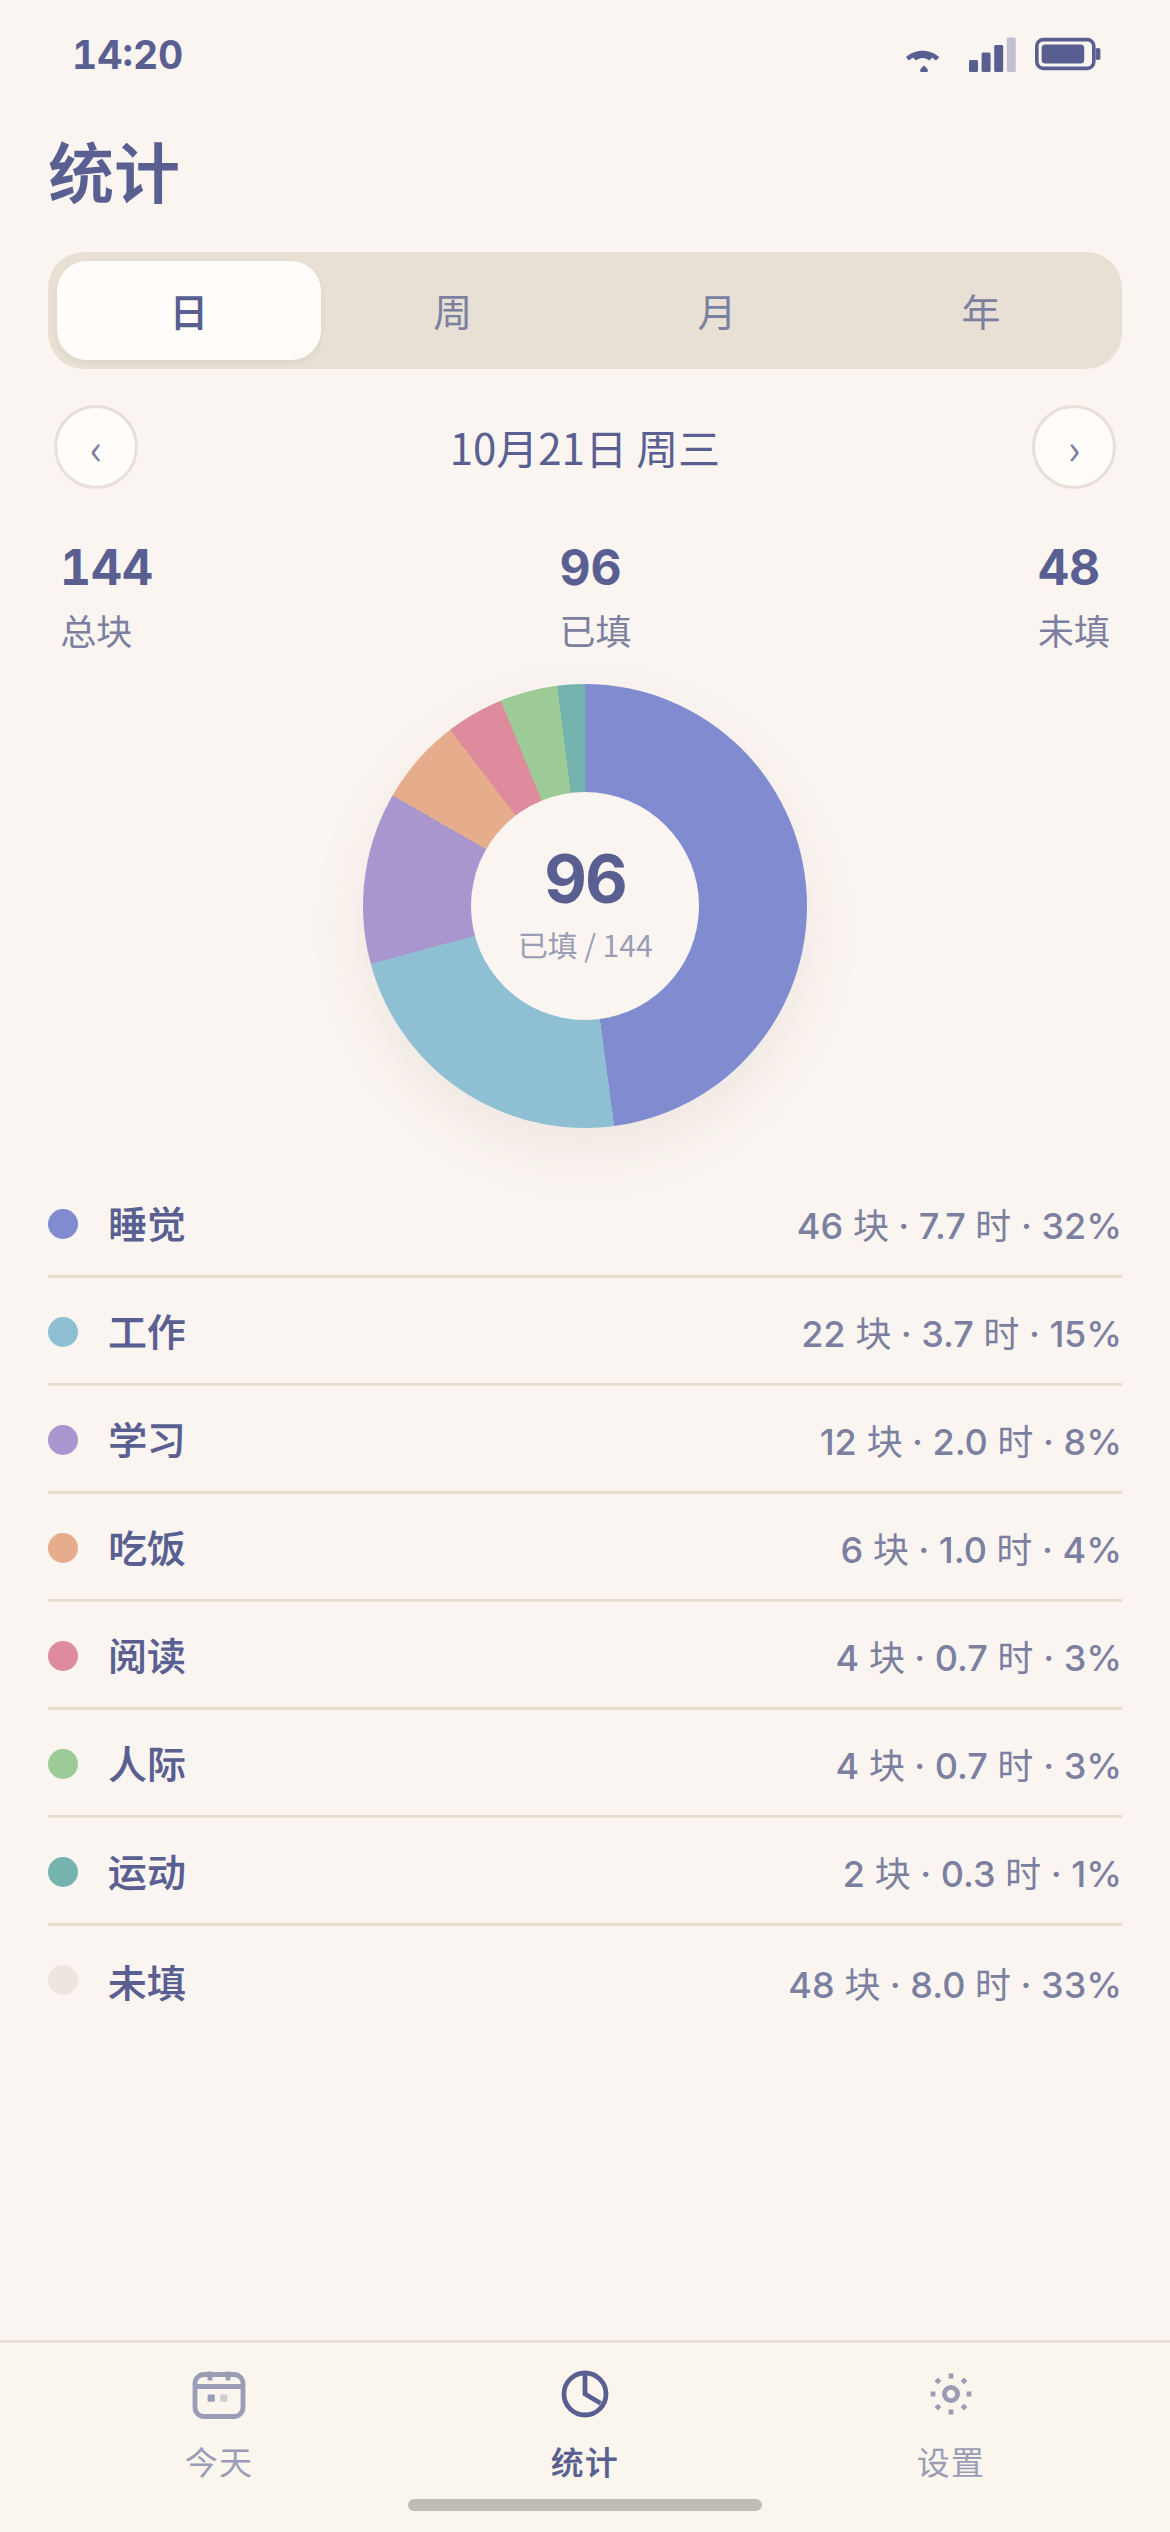
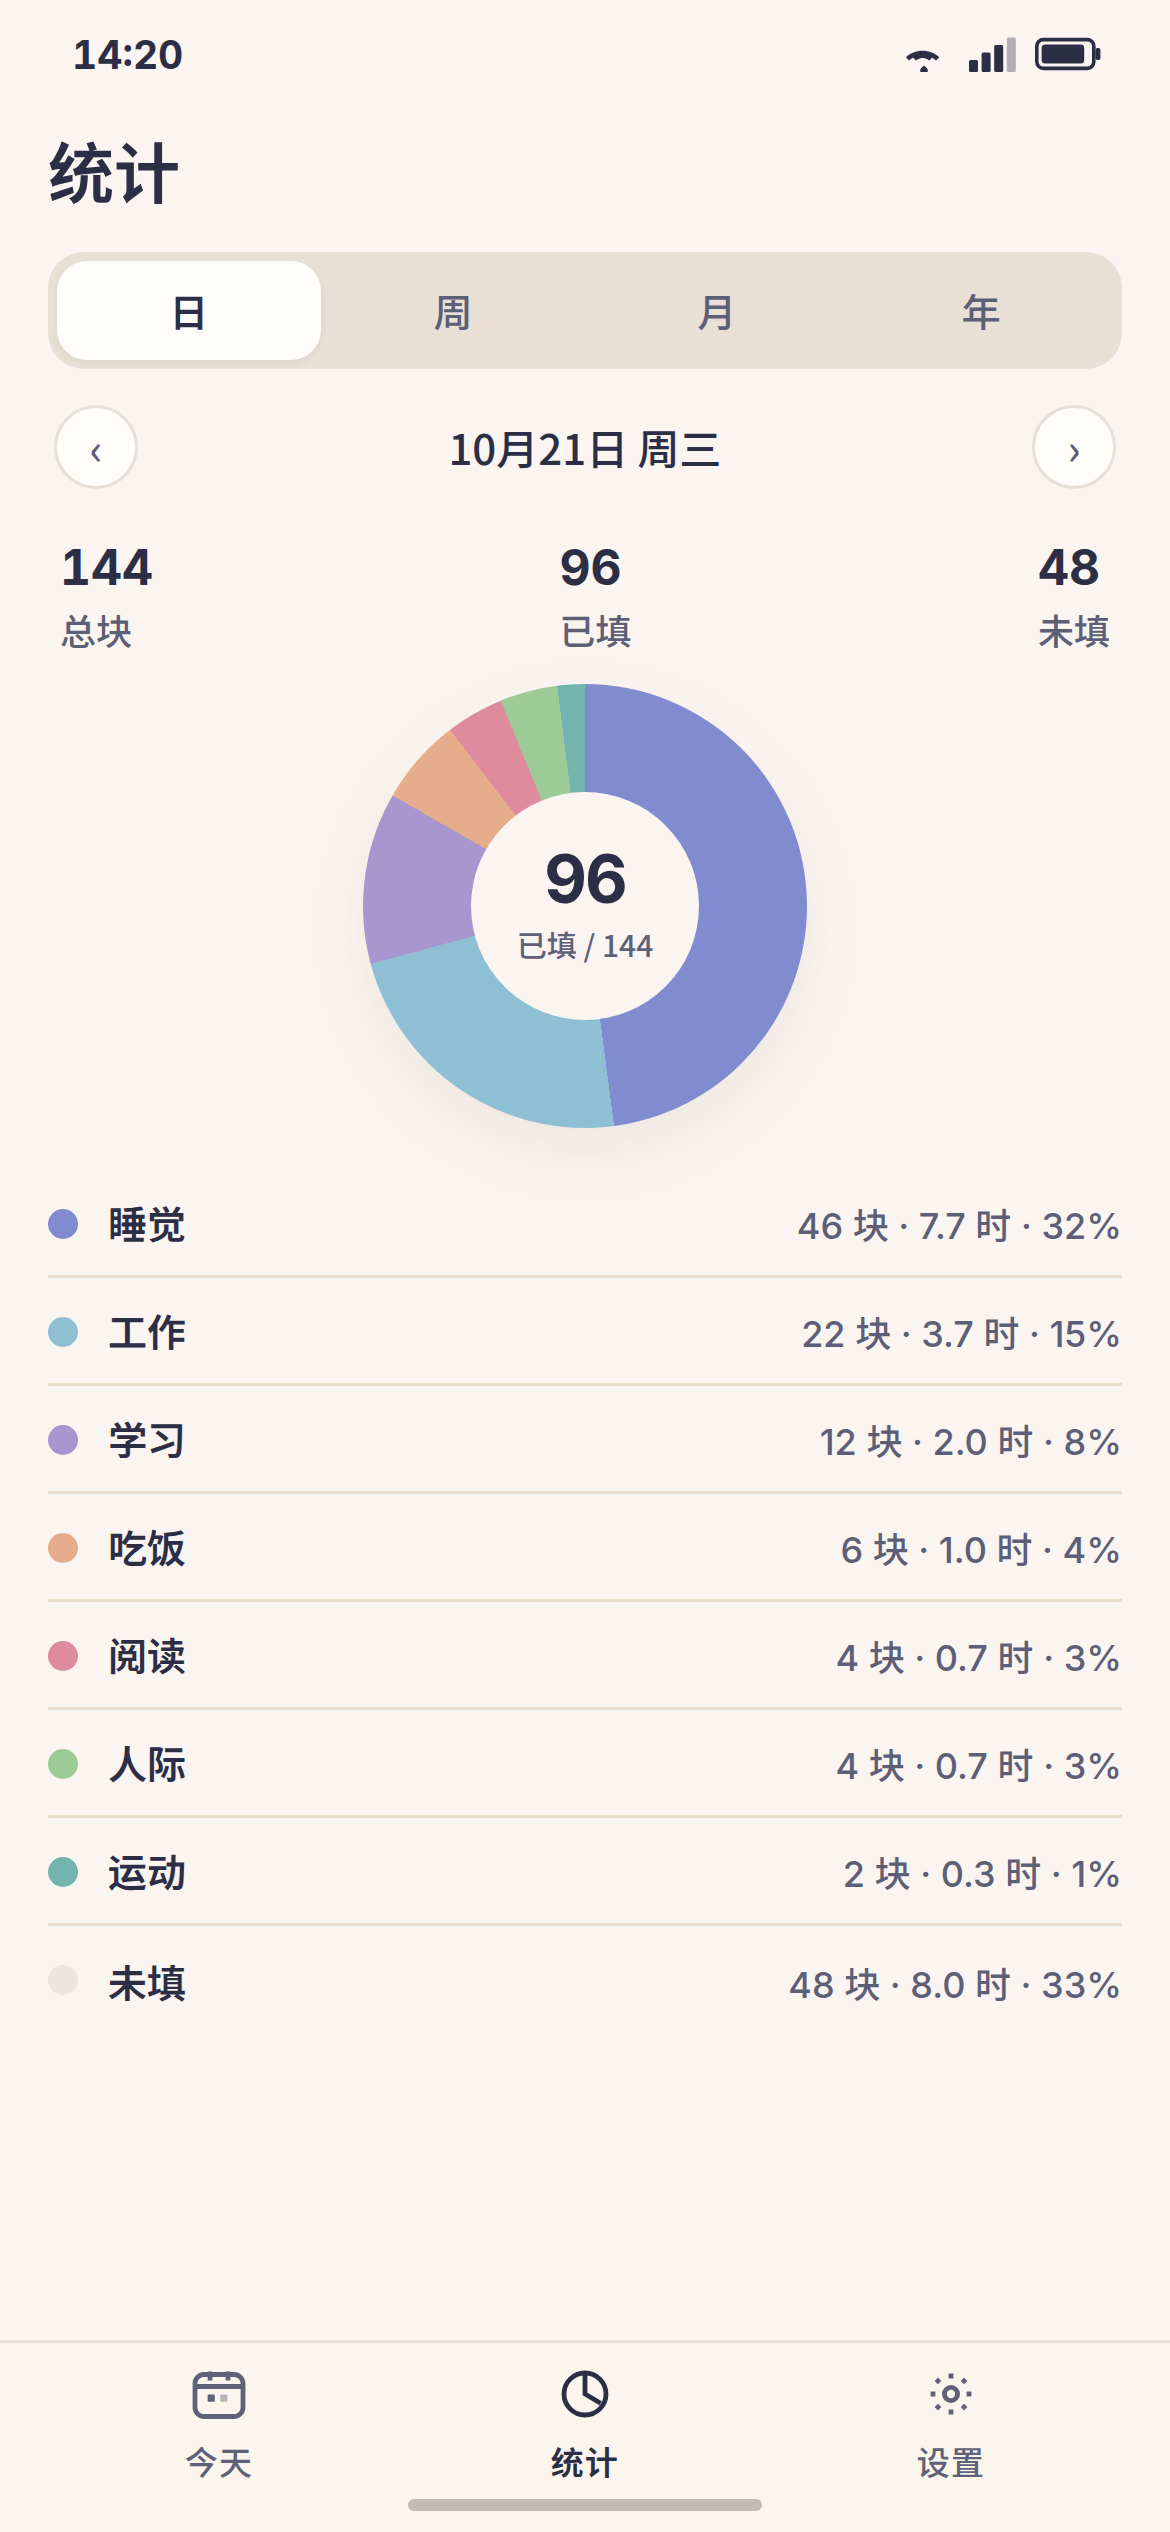
Darken text tokens and bump type weights for readability.
The bundled Noto Sans SC variable font was rendering at Thin
because no wght axis was set. Map real 400–700 instances, bump
Material typography one step, and replace washed indigo-grays
with AA-compliant ink on paper.

diff --git a/mockups/index.html b/mockups/index.html
@@ -28,9 +28,9 @@
       --paper: #fbf5f1;
       --paper-deep: #f3ebe5;
       --card: #fffcf9;
-      --ink: #5a5f92;
-      --ink-2: #7b80a0;
-      --ink-3: #9a9db5;
+      --ink: #2b2e45;
+      --ink-2: #5c5f75;
+      --ink-3: #5e6178;
       --line: #e8e0d8;
       --line-2: #ddd4cc;
       --accent: #5a5f92;
@@ -58,6 +58,7 @@
     body {
       font-family: "Noto Sans SC", "WenQuanYi Micro Hei", sans-serif;
       color: var(--ink);
+      font-weight: 500;
       -webkit-font-smoothing: antialiased;
     }
     .num { font-family: "Inter", "Noto Sans SC", sans-serif; font-feature-settings: "tnum" 1; }
@@ -154,8 +155,9 @@
       flex: 1; display: flex; flex-direction: column;
       align-items: center; justify-content: center; gap: 3px;
       color: var(--ink-3); font-size: 11px; letter-spacing: 0.04em;
+      font-weight: 500;
     }
-    .tab.on { color: var(--ink); font-weight: 560; }
+    .tab.on { color: var(--ink); font-weight: 600; }
     .tab svg { display: block; }
 
     .gesture {
@@ -270,7 +272,7 @@
       box-shadow: 0 1px 0 rgba(255,255,255,0.7) inset, 0 6px 14px rgba(80,60,40,0.04);
     }
     .stat .n { font-size: 22px; font-weight: 700; letter-spacing: -0.03em; line-height: 1.1; }
-    .stat .l { margin-top: 4px; font-size: 11px; color: var(--ink-3); letter-spacing: 0.04em; }
+    .stat .l { margin-top: 4px; font-size: 11px; color: var(--ink-3); letter-spacing: 0.04em; font-weight: 500; }
     .stat.em { background: #e8e9f4; border-color: #d4d6e8; }
     .stat.em .n { color: var(--accent); }
 
@@ -301,6 +303,7 @@
     .hour-t {
       font-size: 11px; color: var(--ink-3); text-align: right; padding-right: 2px;
       font-family: "Inter", "Noto Sans SC", sans-serif;
+      font-weight: 500;
     }
     .cells { display: grid; grid-template-columns: repeat(6, 1fr); gap: 5px; height: 100%; }
     .c {
@@ -426,8 +429,9 @@
     .seg i {
       text-align: center; font-style: normal;
       font-size: 13px; padding: 7px 0; border-radius: 10px; color: var(--ink-2);
+      font-weight: 500;
     }
-    .seg i.on { background: var(--card); color: var(--ink); font-weight: 560; box-shadow: 0 1px 2px rgba(44,40,36,0.06); }
+    .seg i.on { background: var(--card); color: var(--ink); font-weight: 600; box-shadow: 0 1px 2px rgba(44,40,36,0.06); }
 
     .period {
       display: flex; align-items: center; justify-content: space-between;
@@ -443,6 +447,7 @@
     .sum3 {
       display: flex; gap: 0; justify-content: space-between;
       padding: 8px 4px 4px; font-size: 12px; color: var(--ink-2);
+      font-weight: 500;
     }
     .sum3 b { display: block; font-size: 16px; color: var(--ink); font-weight: 650; margin-bottom: 2px; }
 
@@ -475,7 +480,7 @@
       z-index: 1;
     }
     .pie-label .n { font-size: 22px; font-weight: 700; letter-spacing: -0.03em; line-height: 1; }
-    .pie-label .l { font-size: 10px; color: var(--ink-3); margin-top: 3px; }
+    .pie-label .l { font-size: 10px; color: var(--ink-3); margin-top: 3px; font-weight: 500; }
 
     .tlist { margin-top: 6px; }
     .trow {
@@ -489,7 +494,7 @@
     }
     .trow:last-child { border-bottom: 0; }
     .trow .dot { width: 10px; height: 10px; }
-    .trow .name { font-weight: 560; }
+    .trow .name { font-weight: 600; }
     .trow .fig {
       font-size: 12px; color: var(--ink-2); white-space: nowrap;
       font-family: "Inter", "Noto Sans SC", sans-serif;
@@ -508,6 +513,7 @@
     }
     .group .cap {
       padding: 10px 14px 0; font-size: 11px; color: var(--ink-3); letter-spacing: 0.08em;
+      font-weight: 500;
     }
     .srow {
       display: flex; align-items: center; gap: 12px;
@@ -521,15 +527,15 @@
       flex: none;
     }
     .srow .txt { flex: 1; min-width: 0; }
-    .srow .ttl { font-size: 14px; }
-    .srow .sub { font-size: 11px; color: var(--ink-3); margin-top: 2px; }
+    .srow .ttl { font-size: 14px; font-weight: 500; }
+    .srow .sub { font-size: 11px; color: var(--ink-3); margin-top: 2px; font-weight: 500; }
     .srow .val { font-size: 13px; color: var(--ink-2); }
     .srow .chev { border: 0; background: transparent; width: 16px; height: 16px; }
 
     .dots { display: flex; gap: 4px; }
     .dots i { width: 10px; height: 10px; border-radius: 50%; display: block; }
 
-    .fineprint { text-align: center; font-size: 11px; color: var(--ink-3); line-height: 1.7; padding: 6px 12px 0; }
+    .fineprint { text-align: center; font-size: 11px; color: var(--ink-3); line-height: 1.7; padding: 6px 12px 0; font-weight: 500; }
 
     /* ===== 类型管理 ===== */
     .type-page { flex: 1; display: flex; flex-direction: column; min-height: 0; }

diff --git a/app/src/main/java/com/shijiankuai/app/ui/theme/Type.kt b/app/src/main/java/com/shijiankuai/app/ui/theme/Type.kt
@@ -1,0 +1,61 @@
+@file:OptIn(ExperimentalTextApi::class)
+
+package com.shijiankuai.app.ui.theme
+
+import androidx.compose.material3.Typography
+import androidx.compose.ui.text.ExperimentalTextApi
+import androidx.compose.ui.text.TextStyle
+import androidx.compose.ui.text.font.Font
+import androidx.compose.ui.text.font.FontFamily
+import androidx.compose.ui.text.font.FontVariation
+import androidx.compose.ui.text.font.FontWeight
+import com.shijiankuai.app.R
+
+private fun noto(weight: FontWeight, axis: Int) = Font(
+    resId = R.font.noto_sans_sc,
+    weight = weight,
+    variationSettings = FontVariation.Settings(FontVariation.weight(axis)),
+)
+
+val NotoSansSc = FontFamily(
+    noto(FontWeight.Normal, 400),
+    noto(FontWeight.Medium, 500),
+    noto(FontWeight.SemiBold, 600),
+    noto(FontWeight.Bold, 700),
+)
+
+fun appTypography(): Typography {
+    val t = Typography()
+    return Typography(
+        displayLarge = t.displayLarge.readable(),
+        displayMedium = t.displayMedium.readable(),
+        displaySmall = t.displaySmall.readable(),
+        headlineLarge = t.headlineLarge.readable(),
+        headlineMedium = t.headlineMedium.readable(),
+        headlineSmall = t.headlineSmall.readable(),
+        titleLarge = t.titleLarge.readable(),
+        titleMedium = t.titleMedium.readable(),
+        titleSmall = t.titleSmall.readable(),
+        bodyLarge = t.bodyLarge.readable(),
+        bodyMedium = t.bodyMedium.readable(),
+        bodySmall = t.bodySmall.readable(),
+        labelLarge = t.labelLarge.readable(),
+        labelMedium = t.labelMedium.readable(),
+        labelSmall = t.labelSmall.readable(),
+    )
+}
+
+private fun TextStyle.readable(): TextStyle = copy(
+    fontFamily = NotoSansSc,
+    fontWeight = bumped(fontWeight),
+)
+
+internal fun bumped(weight: FontWeight?): FontWeight {
+    val w = weight?.weight ?: 400
+    return when {
+        w <= 450 -> FontWeight.Medium
+        w <= 550 -> FontWeight.SemiBold
+        w <= 650 -> FontWeight.Bold
+        else -> weight ?: FontWeight.Bold
+    }
+}

diff --git a/app/src/main/java/com/shijiankuai/app/ui/theme/Theme.kt b/app/src/main/java/com/shijiankuai/app/ui/theme/Theme.kt
@@ -4,16 +4,6 @@ import androidx.compose.material3.MaterialTheme
 import androidx.compose.material3.lightColorScheme
 import androidx.compose.runtime.Composable
 import androidx.compose.ui.graphics.Color
-import androidx.compose.ui.text.font.Font
-import androidx.compose.ui.text.font.FontFamily
-import androidx.compose.ui.text.font.FontWeight
-import com.shijiankuai.app.R
-
-val NotoSansSc = FontFamily(
-    Font(R.font.noto_sans_sc, FontWeight.Normal),
-    Font(R.font.noto_sans_sc, FontWeight.Medium),
-    Font(R.font.noto_sans_sc, FontWeight.SemiBold),
-)
 
 private val Scheme = lightColorScheme(
     primary = Accent,
@@ -33,18 +23,7 @@ private val Scheme = lightColorScheme(
 fun TimeBlockTheme(content: @Composable () -> Unit) {
     MaterialTheme(
         colorScheme = Scheme,
-        typography = MaterialTheme.typography.copy(
-            displayLarge = MaterialTheme.typography.displayLarge.copy(fontFamily = NotoSansSc),
-            headlineMedium = MaterialTheme.typography.headlineMedium.copy(fontFamily = NotoSansSc),
-            titleLarge = MaterialTheme.typography.titleLarge.copy(fontFamily = NotoSansSc),
-            titleMedium = MaterialTheme.typography.titleMedium.copy(fontFamily = NotoSansSc),
-            bodyLarge = MaterialTheme.typography.bodyLarge.copy(fontFamily = NotoSansSc),
-            bodyMedium = MaterialTheme.typography.bodyMedium.copy(fontFamily = NotoSansSc),
-            bodySmall = MaterialTheme.typography.bodySmall.copy(fontFamily = NotoSansSc),
-            labelLarge = MaterialTheme.typography.labelLarge.copy(fontFamily = NotoSansSc),
-            labelMedium = MaterialTheme.typography.labelMedium.copy(fontFamily = NotoSansSc),
-            labelSmall = MaterialTheme.typography.labelSmall.copy(fontFamily = NotoSansSc),
-        ),
+        typography = appTypography(),
         content = content,
     )
 }

diff --git a/app/src/main/java/com/shijiankuai/app/ui/stats/StatsScreen.kt b/app/src/main/java/com/shijiankuai/app/ui/stats/StatsScreen.kt
@@ -84,7 +84,7 @@ fun StatsScreen(
                         .padding(vertical = 7.dp),
                     contentAlignment = Alignment.Center,
                 ) {
-                    Text(label, fontSize = 13.sp, color = if (on) Ink else Ink2, fontWeight = if (on) FontWeight.Medium else FontWeight.Normal)
+                    Text(label, fontSize = 13.sp, color = if (on) Ink else Ink2, fontWeight = if (on) FontWeight.SemiBold else FontWeight.Medium)
                 }
             }
         }
@@ -170,7 +170,7 @@ private fun StatRow(color: Color, name: String, blocks: Int, total: Int) {
         verticalAlignment = Alignment.CenterVertically,
     ) {
         Box(Modifier.size(10.dp).clip(CircleShape).background(color))
-        Text(name, fontSize = 13.sp, color = Ink, fontWeight = FontWeight.Medium, modifier = Modifier.padding(start = 8.dp).weight(1f))
+        Text(name, fontSize = 13.sp, color = Ink, fontWeight = FontWeight.SemiBold, modifier = Modifier.padding(start = 8.dp).weight(1f))
         Text(
             "$blocks 块 · ${hoursLabel(blocks)} · $pct%",
             fontSize = 12.sp,

diff --git a/app/src/main/java/com/shijiankuai/app/ui/Previews.kt b/app/src/main/java/com/shijiankuai/app/ui/Previews.kt
@@ -6,6 +6,7 @@ import androidx.compose.ui.tooling.preview.Preview
 import com.shijiankuai.app.domain.BLOCKS_PER_DAY
 import com.shijiankuai.app.domain.Presets
 import com.shijiankuai.app.domain.SLEEP_TYPE_ID
+import com.shijiankuai.app.ui.settings.SettingsScreen
 import com.shijiankuai.app.ui.stats.StatsScreen
 import com.shijiankuai.app.ui.theme.TimeBlockTheme
 import com.shijiankuai.app.ui.today.AsleepScreen
@@ -81,6 +82,20 @@ fun PreviewStats() {
             stats = stats,
             onKind = {},
             onShift = {},
+        )
+    }
+}
+
+@Preview(showBackground = true, widthDp = 390, heightDp = 844)
+@Composable
+fun PreviewSettings() {
+    TimeBlockTheme {
+        SettingsScreen(
+            types = Presets.types,
+            onOpenTypes = {},
+            exportCsv = { "" },
+            exportBackup = { "" },
+            restore = { false },
         )
     }
 }

diff --git a/app/src/test/java/com/shijiankuai/app/ui/theme/ReadabilityTest.kt b/app/src/test/java/com/shijiankuai/app/ui/theme/ReadabilityTest.kt
@@ -1,0 +1,25 @@
+package com.shijiankuai.app.ui.theme
+
+import androidx.compose.ui.text.font.FontWeight
+import org.junit.Assert.assertEquals
+import org.junit.Assert.assertTrue
+import org.junit.Test
+
+class ReadabilityTest {
+    private val paper = 0xFBF5F1L
+
+    @Test
+    fun inkTokensMeetWcagAaOnPaper() {
+        assertTrue(Contrast.ratio(0x2B2E45, paper) >= 4.5)
+        assertTrue(Contrast.ratio(0x5C5F75, paper) >= 4.5)
+        assertTrue(Contrast.ratio(0x5E6178, paper) >= 4.5)
+    }
+
+    @Test
+    fun typographyBumpsOneStep() {
+        assertEquals(FontWeight.Medium, bumped(FontWeight.Normal))
+        assertEquals(FontWeight.SemiBold, bumped(FontWeight.Medium))
+        assertEquals(FontWeight.Bold, bumped(FontWeight.SemiBold))
+        assertEquals(FontWeight.Medium, bumped(null))
+    }
+}

diff --git a/app/src/main/java/com/shijiankuai/app/ui/theme/Contrast.kt b/app/src/main/java/com/shijiankuai/app/ui/theme/Contrast.kt
@@ -1,0 +1,24 @@
+package com.shijiankuai.app.ui.theme
+
+import kotlin.math.pow
+
+object Contrast {
+    fun ratio(fgRgb: Long, bgRgb: Long): Double {
+        val a = luminance(fgRgb)
+        val b = luminance(bgRgb)
+        val lighter = maxOf(a, b)
+        val darker = minOf(a, b)
+        return (lighter + 0.05) / (darker + 0.05)
+    }
+
+    private fun luminance(rgb: Long): Double {
+        fun chan(v: Int): Double {
+            val s = v / 255.0
+            return if (s <= 0.03928) s / 12.92 else ((s + 0.055) / 1.055).pow(2.4)
+        }
+        val r = ((rgb shr 16) and 0xFF).toInt()
+        val g = ((rgb shr 8) and 0xFF).toInt()
+        val b = (rgb and 0xFF).toInt()
+        return 0.2126 * chan(r) + 0.7152 * chan(g) + 0.0722 * chan(b)
+    }
+}

diff --git a/app/src/main/java/com/shijiankuai/app/MainActivity.kt b/app/src/main/java/com/shijiankuai/app/MainActivity.kt
@@ -32,6 +32,7 @@ import androidx.compose.runtime.remember
 import androidx.compose.runtime.setValue
 import androidx.compose.ui.Alignment
 import androidx.compose.ui.Modifier
+import androidx.compose.ui.text.font.FontWeight
 import androidx.compose.ui.unit.dp
 import androidx.compose.ui.unit.sp
 import androidx.lifecycle.compose.collectAsStateWithLifecycle
@@ -162,6 +163,6 @@ private fun TabItem(
     ) {
         Spacer(Modifier.height(8.dp))
         Icon(icon, contentDescription = label, tint = if (on) Ink else Ink3)
-        Text(label, fontSize = 11.sp, color = if (on) Ink else Ink3)
+        Text(label, fontSize = 11.sp, fontWeight = FontWeight.Medium, color = if (on) Ink else Ink3)
     }
 }

diff --git a/app/src/main/java/com/shijiankuai/app/ui/theme/Color.kt b/app/src/main/java/com/shijiankuai/app/ui/theme/Color.kt
@@ -5,9 +5,9 @@ import androidx.compose.ui.graphics.Color
 val Paper = Color(0xFFFBF5F1)
 val PaperDeep = Color(0xFFF3EBE5)
 val Card = Color(0xFFFFFCF9)
-val Ink = Color(0xFF5A5F92)
-val Ink2 = Color(0xFF7B80A0)
-val Ink3 = Color(0xFF9A9DB5)
+val Ink = Color(0xFF2B2E45)
+val Ink2 = Color(0xFF5C5F75)
+val Ink3 = Color(0xFF5E6178)
 val Line = Color(0xFFE8E0D8)
 val Accent = Color(0xFF5A5F92)
 val Wake = Color(0xFFD99A76)
